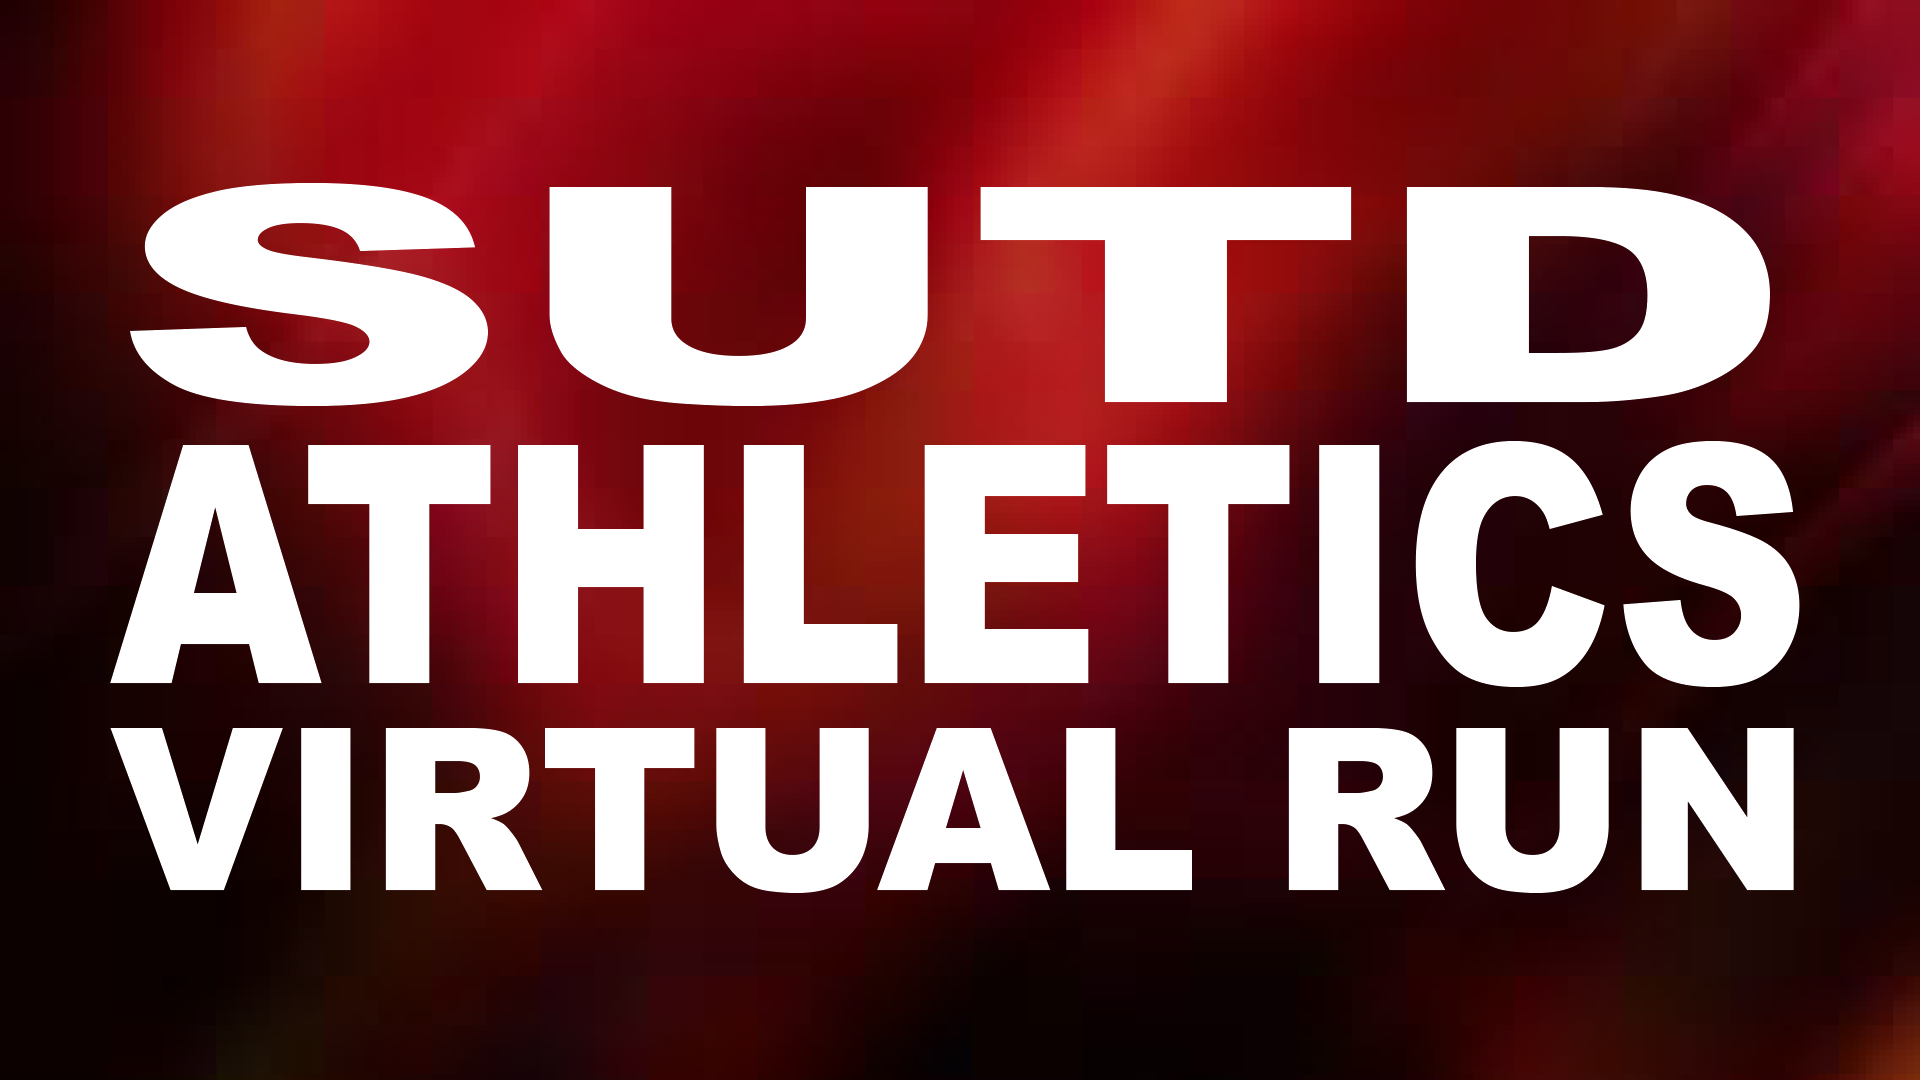
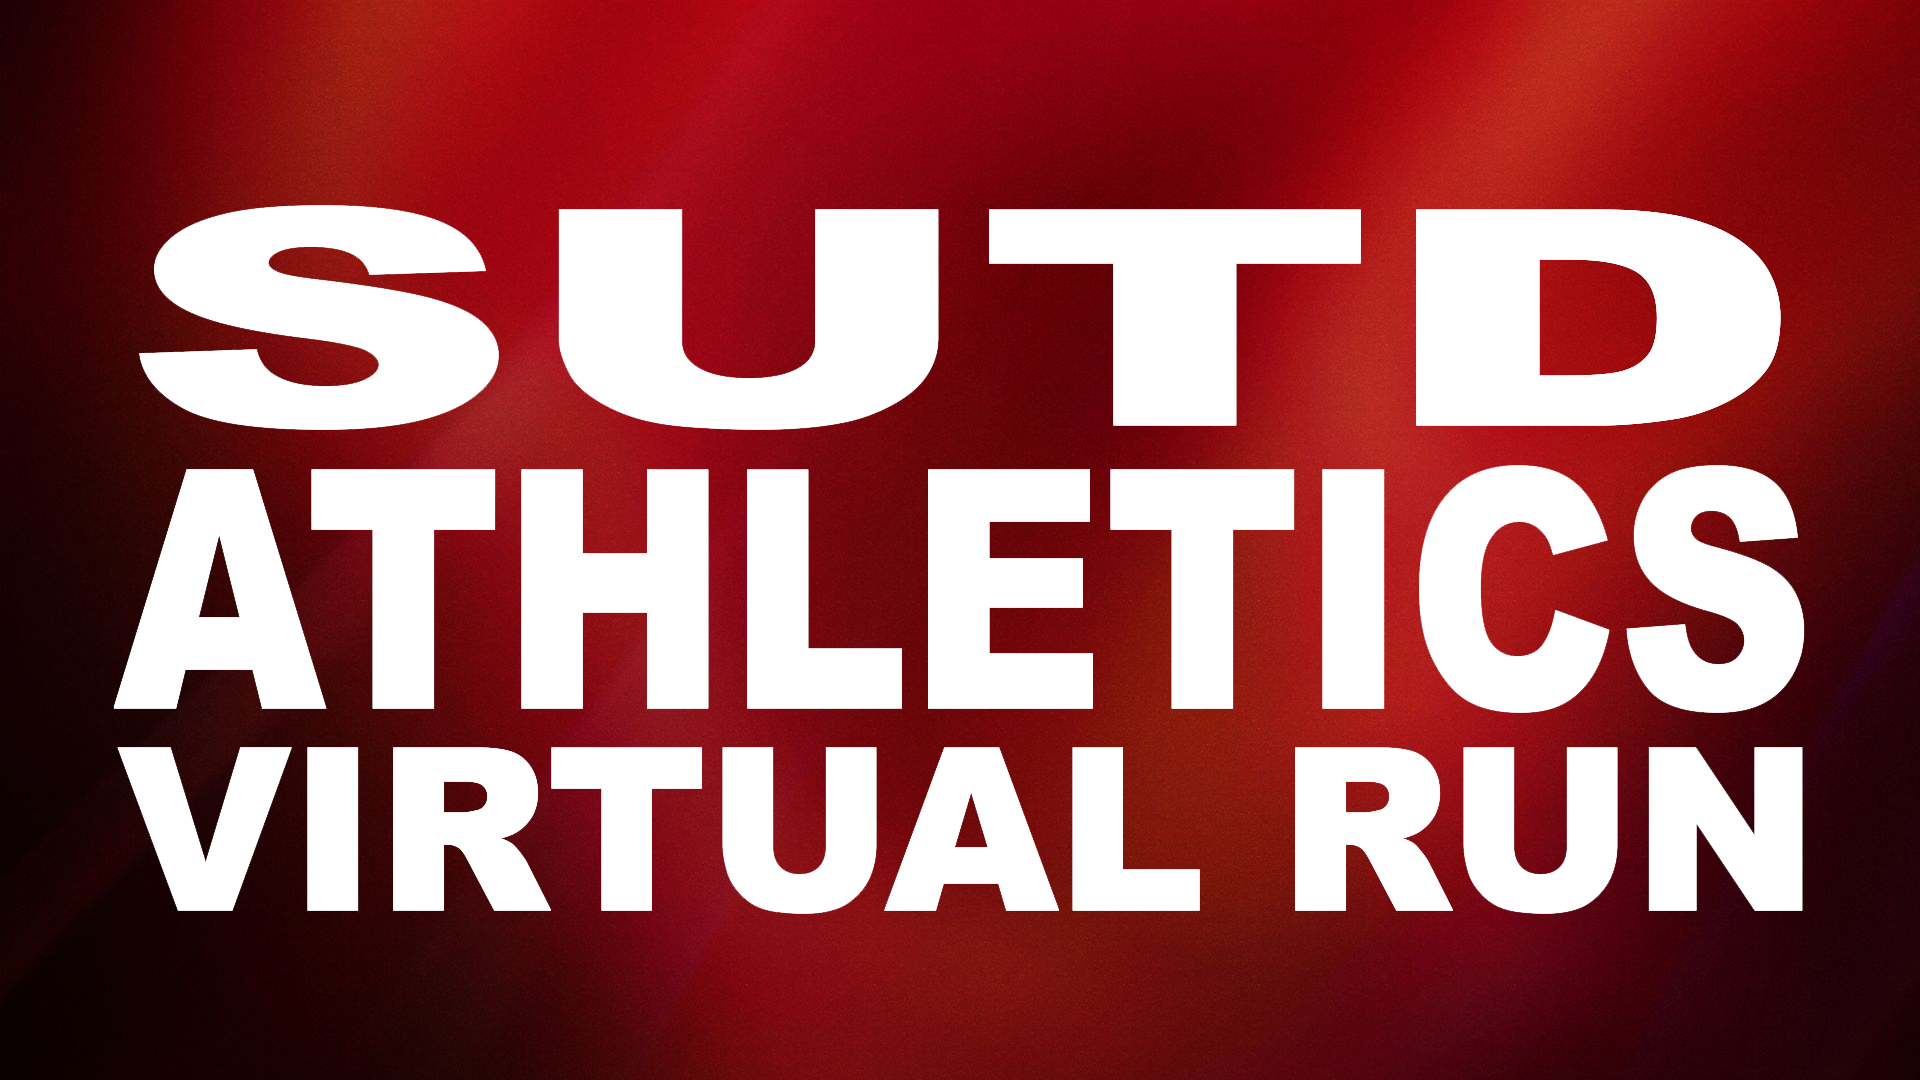
faq done

diff --git a/src/containers/Faqpage.js b/src/containers/Faqpage.js
@@ -1,89 +1,112 @@
 import React from "react";
 import { makeStyles } from "@material-ui/core/styles";
 import styles from "../styles/faqPageStyle.js"
-
+import Header from "../components/Header.js";
+import HeaderLinks from "../components/HeaderLinks.js";
 import GridContainer from "../components/GridContainer.js";
 import GridItem from "../components/GridItem.js";
+import backgroundImg from "../assets/images/Background2.jpg";
+import classNames from "classnames";
 
 const useStyles = makeStyles(styles);
 
-export default function Faqpage() {
+const dashboardRoutes = [];
+export default function Faqpage(props) {
+    const { ...rest } = props;
     const classes = useStyles();
     return (
-        <div className={classes.section}>
-            <GridContainer >
-                <GridItem xs={12} sm={12} md={9}>
-                    <h1 className={classes.title}>FAQ</h1>
-                </GridItem>
-                <GridItem xs={12} sm={12} md={9}>
-                    <h2 className={classes.title}>How do I enter a distance towards the challenge? </h2>
-                </GridItem>
-                <GridItem xs={12} sm={12} md={9}>
-                    <h4 className={classes.description}>Manually – via this (link) to a web. Create an activity after each run, add a distance and time taken and date of run, upload a screenshot of the run and a post-run photo (for validation purpose) and you’re done. </h4>
-                </GridItem>
+        <div className={classes.root}> 
+            <Header
+                color="transparent"
+                routes={dashboardRoutes}
+                brand="SUTD Athletics"
+                rightLinks={<HeaderLinks />}
+                fixed
+                changeColorOnScroll={{
+                    height: 20,
+                    color: "white"
+                }}
+                {...rest}
+            />
+            <img className={classes.background} src={backgroundImg} />
+            <div className={classNames(classes.main, classes.mainRaised)}>
+                <div className={classes.container}>
+                    <div className={classes.section}>
+                        <GridContainer >
+                            <GridItem xs={12} sm={12} md={9}>
+                                <h1 className={classes.title}>FAQ</h1>
+                            </GridItem>
+                            <GridItem xs={12} sm={12} md={9}>
+                                <h2 className={classes.title}>How do I enter a distance towards the challenge? </h2>
+                            </GridItem>
+                            <GridItem xs={12} sm={12} md={9}>
+                                <h4 className={classes.description}>Manually – via this (link) to a web. Create an activity after each run, add a distance and time taken and date of run, upload a screenshot of the run and a post-run photo (for validation purpose) and you’re done. </h4>
+                            </GridItem>
 
-                <GridItem xs={12} sm={12} md={9}>
-                    <h2 className={classes.title}>What does it take to complete this challenge? </h2>
-                </GridItem>
-                <GridItem xs={12} sm={12} md={9}>
-                    <h4 className={classes.description}>You have 21 days (7 March to 28March) for you or your team to complete this challenge. Adjust accordingly to your fitness level, pace yourself and build a long-lasting habit!  </h4>
-                </GridItem>
+                            <GridItem xs={12} sm={12} md={9}>
+                                <h2 className={classes.title}>What does it take to complete this challenge? </h2>
+                            </GridItem>
+                            <GridItem xs={12} sm={12} md={9}>
+                                <h4 className={classes.description}>You have 21 days (7 March to 28March) for you or your team to complete this challenge. Adjust accordingly to your fitness level, pace yourself and build a long-lasting habit!  </h4>
+                            </GridItem>
 
-                <GridItem xs={12} sm={12} md={9}>
-                    <h2 className={classes.title}>What's stopping someone from cheating? </h2>
-                </GridItem>
-                <GridItem xs={12} sm={12} md={9}>
-                    <h4 className={classes.description}>We do have a few ways to detect cheaters, however we do realise that no matter what we do people are always going to be able to find a way to cheat if that’s what they really want to do. E.g. Put their Fitbit on their dog! 
-                    There are no prizes for first place. If someone wants to cheat, then they are only really cheating themselves and wasting their time.  
-                    </h4>
-                </GridItem>
+                            <GridItem xs={12} sm={12} md={9}>
+                                <h2 className={classes.title}>What's stopping someone from cheating? </h2>
+                            </GridItem>
+                            <GridItem xs={12} sm={12} md={9}>
+                                <h4 className={classes.description}>We do have a few ways to detect cheaters, however we do realise that no matter what we do people are always going to be able to find a way to cheat if that’s what they really want to do. E.g. Put their Fitbit on their dog! 
+                                There are no prizes for first place. If someone wants to cheat, then they are only really cheating themselves and wasting their time.  
+                                </h4>
+                            </GridItem>
 
-                <GridItem xs={12} sm={12} md={9}>
-                    <h2 className={classes.title}>When can I register for the challenge? </h2>
-                </GridItem>
-                <GridItem xs={12} sm={12} md={9}>
-                    <h4 className={classes.description}>From now until the start of the challenge, you can register through the (link here)! If you missed the date but want to hop onto the journey with us, contact @jeff_lai98 (telegram).  </h4>
-                </GridItem>
+                            <GridItem xs={12} sm={12} md={9}>
+                                <h2 className={classes.title}>When can I register for the challenge? </h2>
+                            </GridItem>
+                            <GridItem xs={12} sm={12} md={9}>
+                                <h4 className={classes.description}>From now until the start of the challenge, you can register through the (link here)! If you missed the date but want to hop onto the journey with us, contact @jeff_lai98 (telegram).  </h4>
+                            </GridItem>
 
-                <GridItem xs={12} sm={12} md={9}>
-                    <h2 className={classes.title}>Can I enter multiple activities at once?   </h2>
-                </GridItem>
-                <GridItem xs={12} sm={12} md={9}>
-                    <h4 className={classes.description}>We strongly encourage you to upload your activity after each run. As you can only upload one activity for each submission, it will be a pain in the ass to key in your results at once closer to the end. </h4>
-                </GridItem>
+                            <GridItem xs={12} sm={12} md={9}>
+                                <h2 className={classes.title}>Can I enter multiple activities at once?   </h2>
+                            </GridItem>
+                            <GridItem xs={12} sm={12} md={9}>
+                                <h4 className={classes.description}>We strongly encourage you to upload your activity after each run. As you can only upload one activity for each submission, it will be a pain in the ass to key in your results at once closer to the end. </h4>
+                            </GridItem>
 
-                <GridItem xs={12} sm={12} md={9}>
-                    <h2 className={classes.title}>How do I enter a distance towards the challenge? </h2>
-                </GridItem>
-                <GridItem xs={12} sm={12} md={9}>
-                    <h4 className={classes.description}>Manually – via this (link) to a web. Create an activity after each run, add a distance and time taken and date of run, upload a screenshot of the run and a post-run photo (for validation purpose) and you’re done. 
-                    Most importantly, we will appreciate if you can upload your run timely as it helps to keep the leader board alive. </h4>
-                </GridItem>
+                            <GridItem xs={12} sm={12} md={9}>
+                                <h2 className={classes.title}>How do I enter a distance towards the challenge? </h2>
+                            </GridItem>
+                            <GridItem xs={12} sm={12} md={9}>
+                                <h4 className={classes.description}>Manually – via this (link) to a web. Create an activity after each run, add a distance and time taken and date of run, upload a screenshot of the run and a post-run photo (for validation purpose) and you’re done. 
+                                Most importantly, we will appreciate if you can upload your run timely as it helps to keep the leader board alive. </h4>
+                            </GridItem>
 
-                <GridItem xs={12} sm={12} md={9}>
-                    <h2 className={classes.title}>How do teams work?  </h2>
-                </GridItem>
-                <GridItem xs={12} sm={12} md={9}>
-                    <h4 className={classes.description}>Teams are a fun way to take part in Virtual Run. 
-                    **Note that each team member is required to  submit their own activities. Each team member will receive their own Finisher T-shirt** 
-                    Basically, you share the distance with the other people in your team. 
-                    Your team will also be represented on the leader board. 
-                    You (as in you personally) will also be able to see information about your own achievements and rankings separate from the team. 
-                    The distance doesn’t have to be divided evenly among team members. You can team up with guru athletes and people just starting out! 
-                    So, round up your friends or workmates and join the fun! < /h4>
-                </GridItem>
+                            <GridItem xs={12} sm={12} md={9}>
+                                <h2 className={classes.title}>How do teams work?  </h2>
+                            </GridItem>
+                            <GridItem xs={12} sm={12} md={9}>
+                                <h4 className={classes.description}>Teams are a fun way to take part in Virtual Run. 
+                                **Note that each team member is required to  submit their own activities. Each team member will receive their own Finisher T-shirt** 
+                                Basically, you share the distance with the other people in your team. 
+                                Your team will also be represented on the leader board. 
+                                You (as in you personally) will also be able to see information about your own achievements and rankings separate from the team. 
+                                The distance doesn’t have to be divided evenly among team members. You can team up with guru athletes and people just starting out! 
+                                So, round up your friends or workmates and join the fun! </h4>
+                            </GridItem>
 
-                <GridItem xs={12} sm={12} md={9}>
-                    <h2 className={classes.title}>How do I access the challenge after I've signed up?  </h2>
-                </GridItem>
-                <GridItem xs={12} sm={12} md={9}>
-                    <h4 className={classes.description}>SUTD Athletics Virtual Run is powered by our own web created by the students. 
-                    When you sign up for the challenge, your name will automatically be set up in the SUTD Athletics Virtual Run leader board. 
-                    Besides, you will be submitting your run activities on the website too. </h4>
-                </GridItem>
+                            <GridItem xs={12} sm={12} md={9}>
+                                <h2 className={classes.title}>How do I access the challenge after I've signed up?  </h2>
+                            </GridItem>
+                            <GridItem xs={12} sm={12} md={9}>
+                                <h4 className={classes.description}>SUTD Athletics Virtual Run is powered by our own web created by the students. 
+                                When you sign up for the challenge, your name will automatically be set up in the SUTD Athletics Virtual Run leader board. 
+                                Besides, you will be submitting your run activities on the website too. </h4>
+                            </GridItem>
 
-            </GridContainer>
-            
+                        </GridContainer>
+                    </div>
+                </div>
+            </div>
         </div>
     );
 }

diff --git a/src/styles/faqPageStyle.js b/src/styles/faqPageStyle.js
@@ -1,22 +1,57 @@
-import { title } from "./coreStyles.js";
 
-const faqPageStyle = {
+import { container, title } from "./coreStyles.js";
+
+const faqPageStyle = (theme) => ({
+    root: {
+        fontFamily: '"Roboto", "Helvetica", "Arial", sans-serif',
+    },
     section: {
         // padding: "70px 0",
         textAlign: "left",
-        backgroundColor: "black"
-        },
+        backgroundColor: 'transparent',
+        padding: "70px 20px",
+        
+    },
     title: {
-        ...title,
         marginBottom: "1rem",
         marginTop: "30px",
         minHeight: "32px",
         textDecoration: "none",
-        color: "white"
+        color: "black",
+
     },
     description: {
-        color: "white"
-    }
-};
+        color: "black",
+
+    },
+    background: {
+        minWidth: '100vw',
+        height: '100vh',
+        backgroundSize: 'cover',
+        backgroundRepeat:'no-repeat',
+        backgroundPosition:'center center',
+        position: 'fixed',
+
+    },
+    main: {
+        // background: "#FFFFFF",
+        background: "#ffebee99",
+        position: "relative",
+        zIndex: "3",
+    },
+    mainRaised: {
+        margin: "0px 150px 0px",
+        borderRadius: "6px",
+        boxShadow:
+            "0 16px 24px 2px rgba(0, 0, 0, 0.14), 0 6px 30px 5px rgba(0, 0, 0, 0.12), 0 8px 10px -5px rgba(0, 0, 0, 0.2)"
+    },
+    container: {
+        zIndex: "9",
+        color: "#FFFFFF00",
+        
+        ...container
+    },
+
+});
 
 export default faqPageStyle;

diff --git a/src/components/Header.js b/src/components/Header.js
@@ -15,6 +15,7 @@ import Drawer from "@material-ui/core/Drawer";
 import Menu from "@material-ui/icons/Menu";
 // core components
 import styles from "../styles/headerStyle.js";
+import logo from "../assets/images/Logo.png";
 
 const useStyles = makeStyles(styles);
 
@@ -60,7 +61,7 @@ export default function Header(props) {
     [classes.absolute]: absolute,
     [classes.fixed]: fixed
   });
-  const brandComponent = <Link className={classes.dropdownLink} to='/' >{brand}</Link>;
+  const brandComponent = <Link className={classes.dropdownLink} to='/' > <img src= {logo}   height="60"></img></Link>;
   return (
     <AppBar className={appBarClasses}>
       <Toolbar className={classes.container}>

diff --git a/src/components/InfoSection.js b/src/components/InfoSection.js
@@ -2,15 +2,10 @@ import React from "react";
 // @material-ui/core components
 import { makeStyles } from "@material-ui/core/styles";
 
-// @material-ui/icons
-import Chat from "@material-ui/icons/Chat";
-import VerifiedUser from "@material-ui/icons/VerifiedUser";
-import Fingerprint from "@material-ui/icons/Fingerprint";
+
 // core components
 import GridContainer from "./GridContainer.js";
 import GridItem from "./GridItem.js";
-
-import Button from "./Button.js";
 import styles from "../styles/infoSectionStyle.js";
 import CustomDropdown from "./CustomDropdown.js";
 import CreateIcon from '@material-ui/icons/Create';

diff --git a/src/styles/aboutSectionStyle.js b/src/styles/aboutSectionStyle.js
@@ -4,7 +4,7 @@ import { title } from "./coreStyles.js";
 
 const aboutSectionStyle = theme => ({
     section: {
-        // padding: "70px 0",
+        // padding: "0 20px",
         textAlign: "left"
     },
     title: {
@@ -17,10 +17,12 @@ const aboutSectionStyle = theme => ({
     light: {
         backgroundColor: "#ffebee",
         height: "40vh",
+        padding: "0 2vw",
         
     },
     header: {
         textAlign: "center",
+        padding: "0 2vw",
     },
     dividerHor: {
         border: '2px solid #f44336',

diff --git a/src/containers/Homepage.js b/src/containers/Homepage.js
@@ -17,7 +17,7 @@ import styles from "../styles/homePageStyle.js";
 import backgroundVideo from '../assets/images/Background.mp4'
 import "../styles/homePage.css"
 
-import bgImg from "../assets/images/Asset.png";
+import bgImg from "../assets/images/Background.png";
 
 const dashboardRoutes = [];
 
